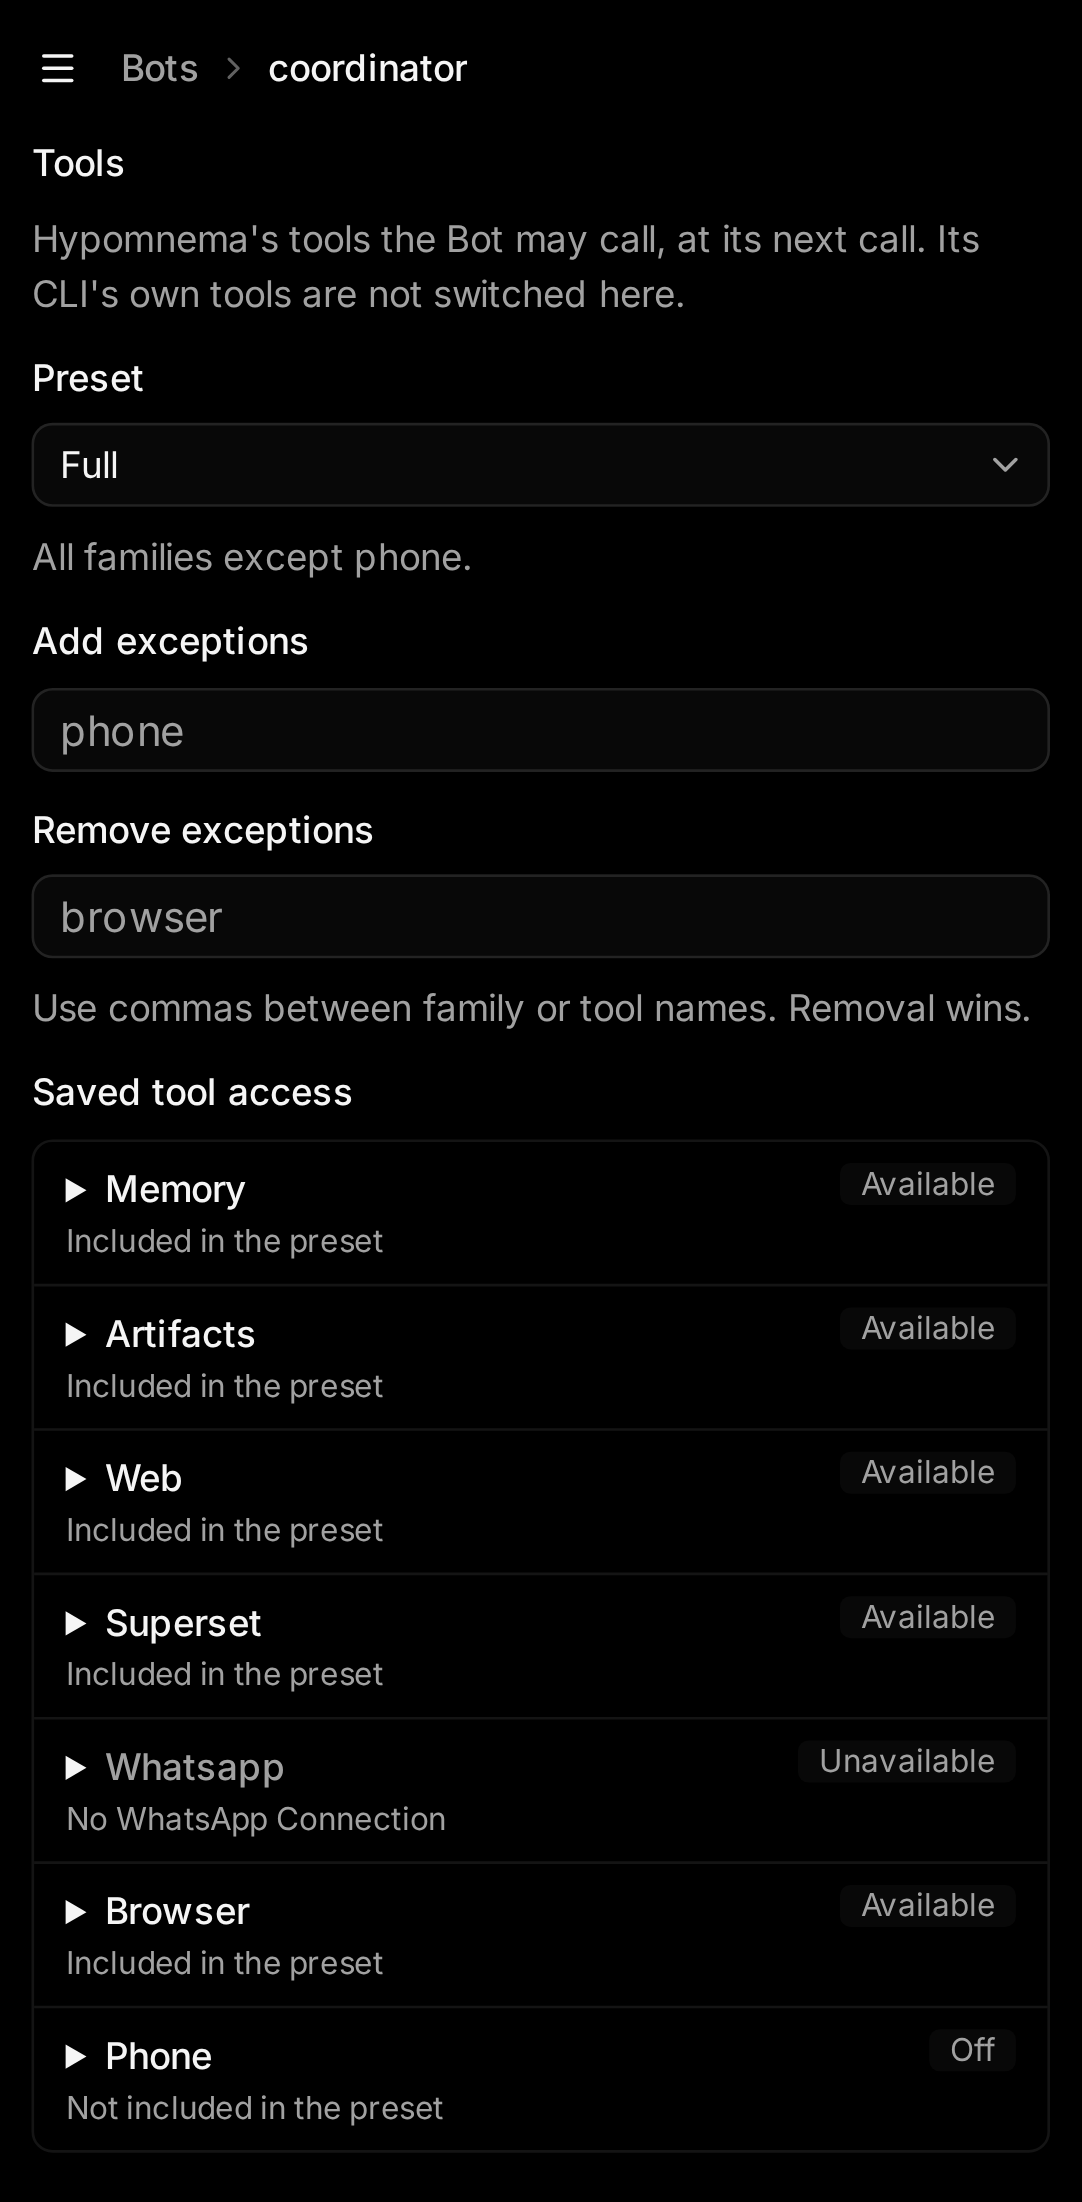
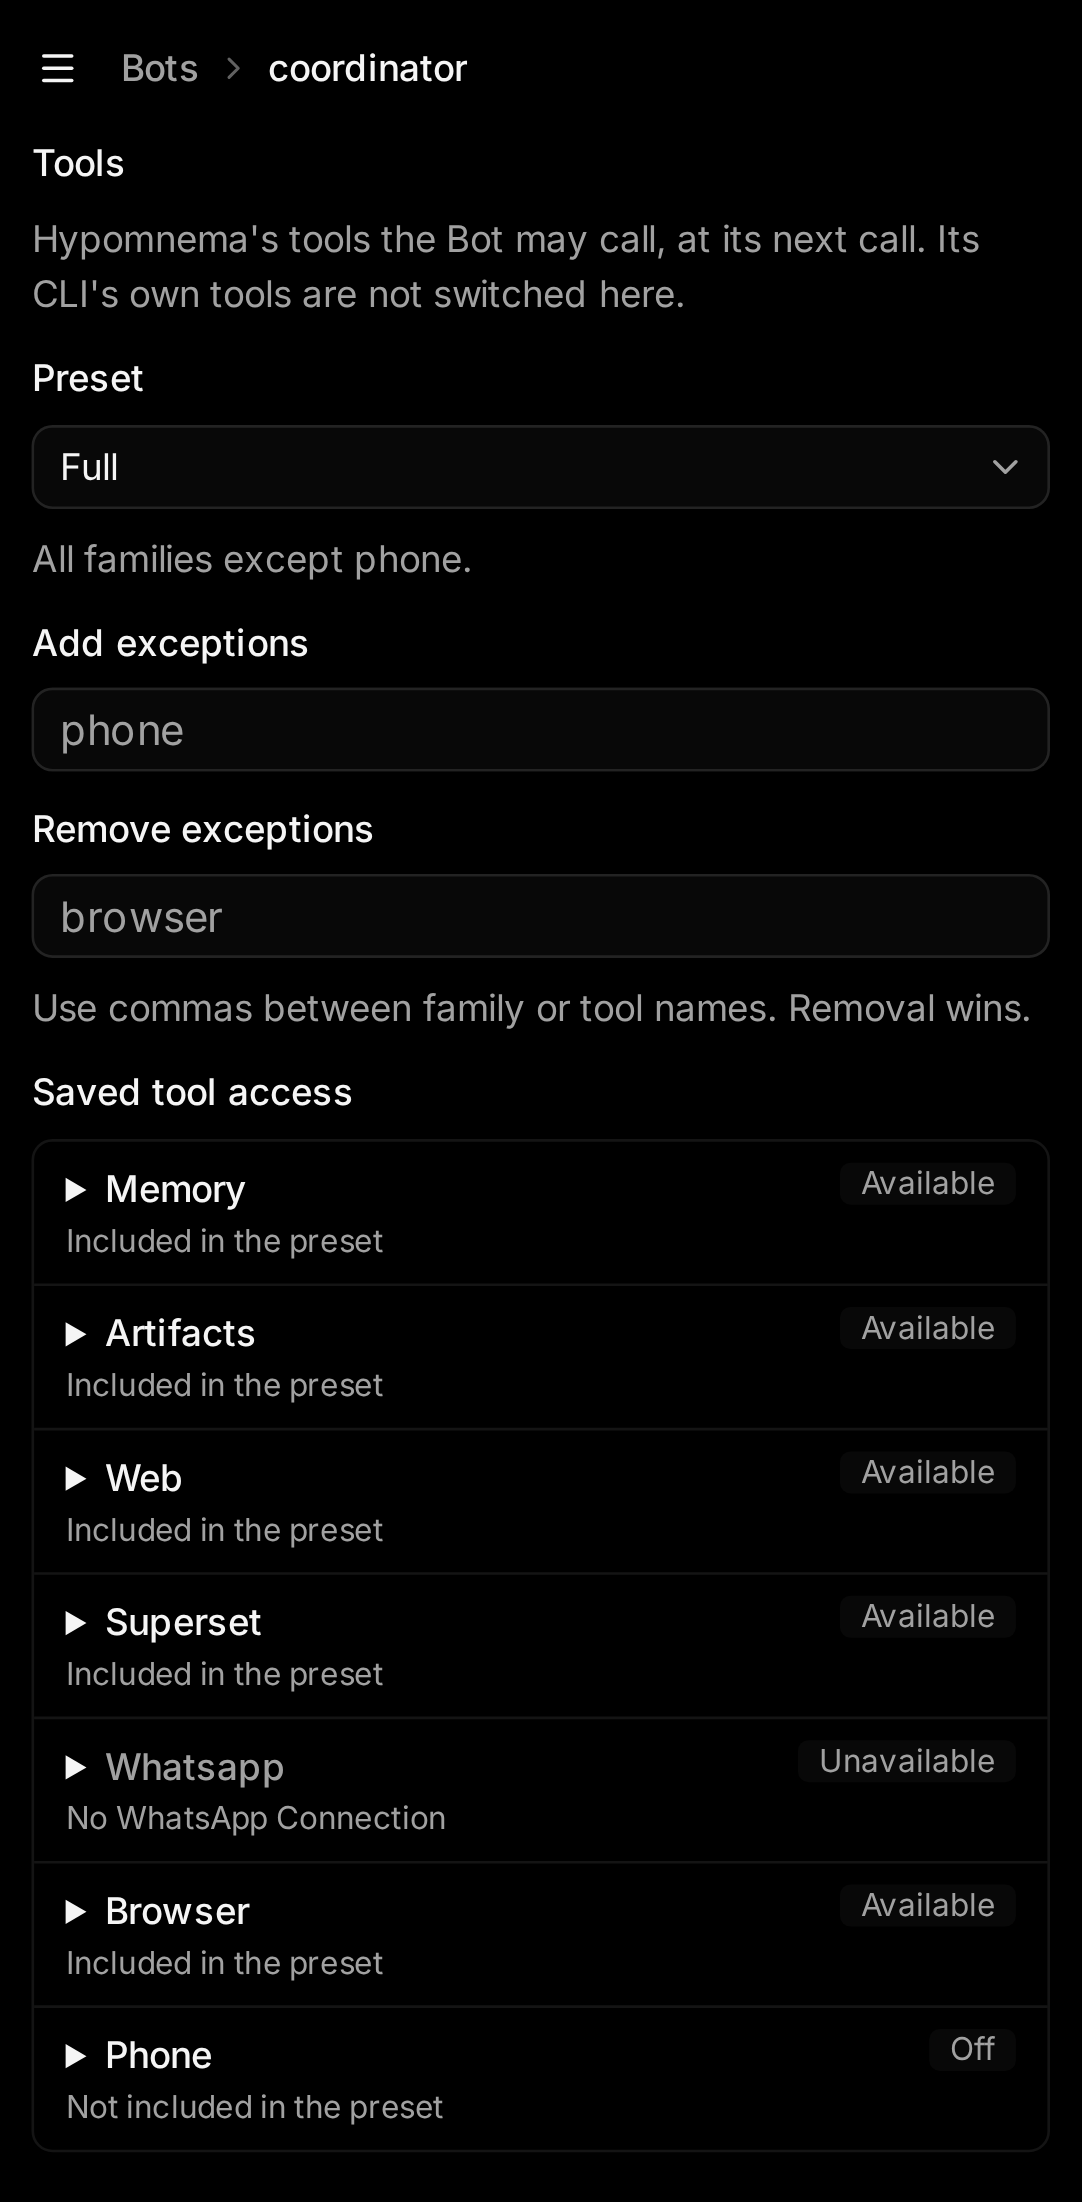
test(web): refresh Bot preset screenshots and streamline profile form test (#875)

diff --git a/web/src/features/agents/agents.test.tsx b/web/src/features/agents/agents.test.tsx
@@ -279,8 +279,10 @@ test("a new agent is sent as YAML built from the fields", async () => {
   const create = await screen.findByRole("button", { name: "Create profile" })
   expect(create).toBeDisabled()
 
-  await user.type(screen.getByLabelText("Name"), "codex-implementer")
-  await user.type(screen.getByLabelText("Description"), "Makes a narrow change.")
+  await user.click(screen.getByLabelText("Name"))
+  await user.paste("codex-implementer")
+  await user.click(screen.getByLabelText("Description"))
+  await user.paste("Makes a narrow change.")
   await choose(user, screen.getByLabelText("Runs on"), "Codex")
   // The model is found by typing: words of its provider and its name, and Enter takes the first match.
   await user.click(screen.getByLabelText("Model"))
@@ -301,7 +303,8 @@ test("a new agent is sent as YAML built from the fields", async () => {
   await user.click(
     within(screen.getByRole("group", { name: "Effort" })).getByRole("button", { name: "High" }),
   )
-  await user.type(screen.getByLabelText("Instructions"), "Keep the change small.")
+  await user.click(screen.getByLabelText("Instructions"))
+  await user.paste("Keep the change small.")
   await user.click(create)
 
   await screen.findByRole("heading", { name: "codex-implementer" })
